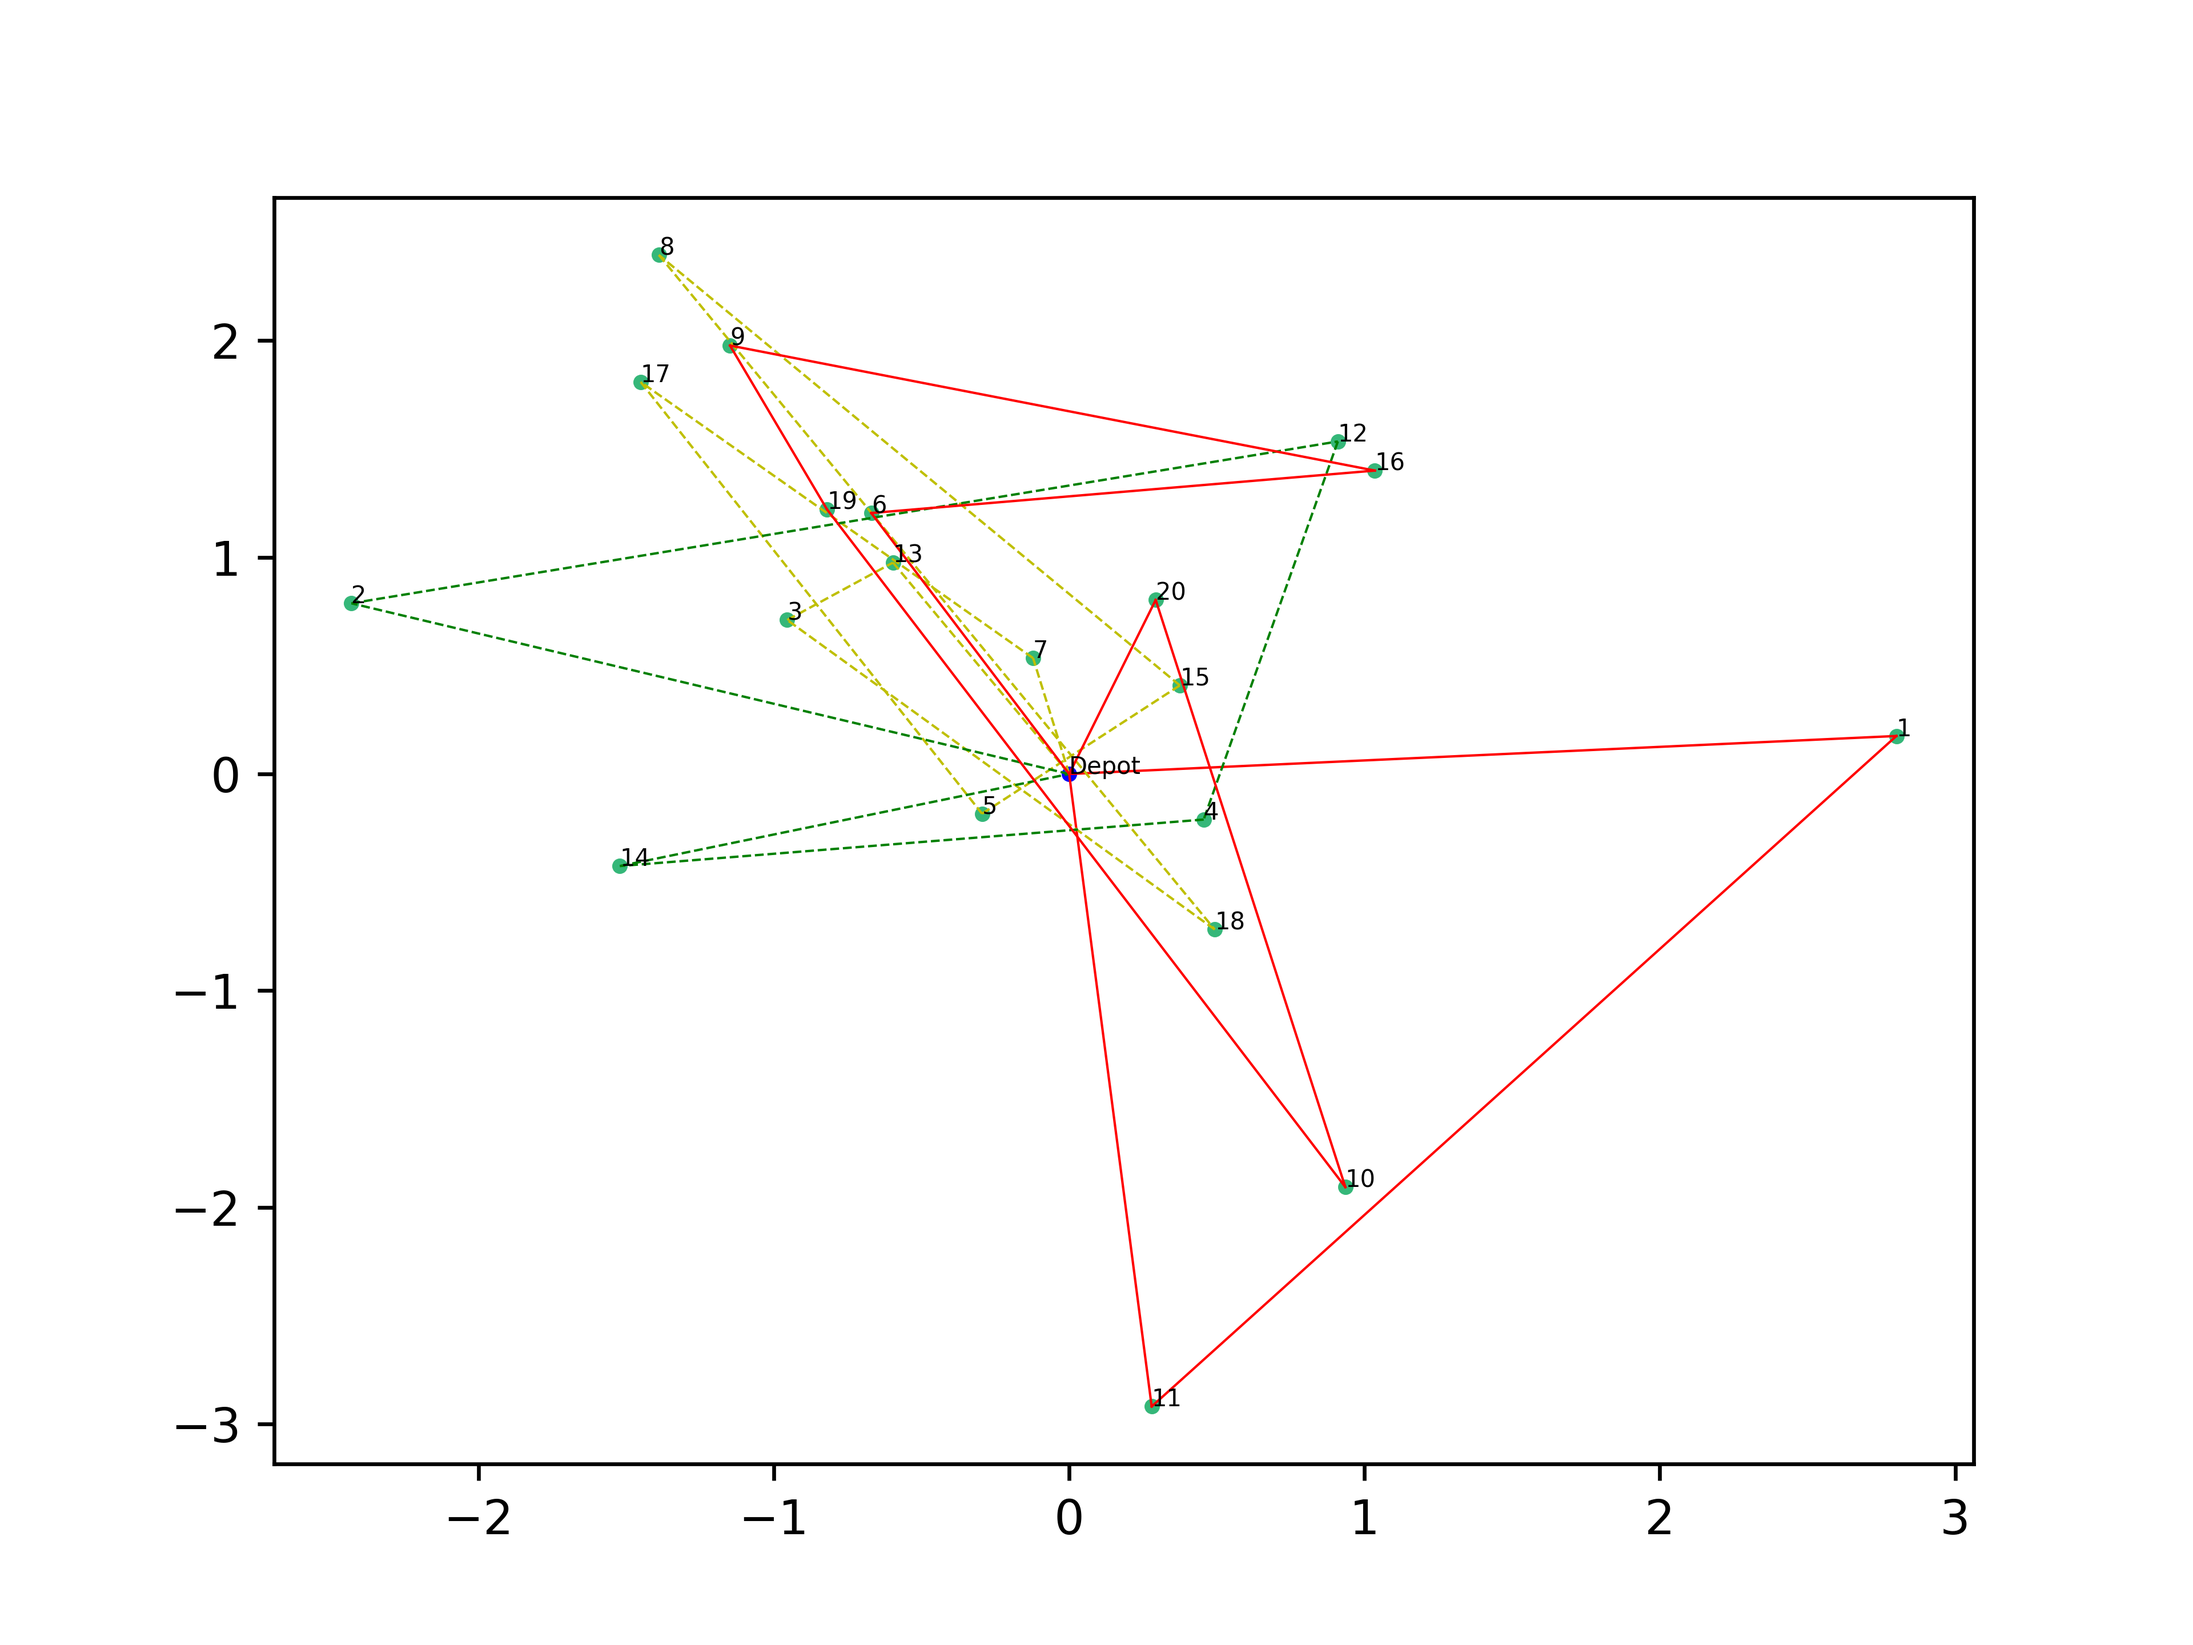
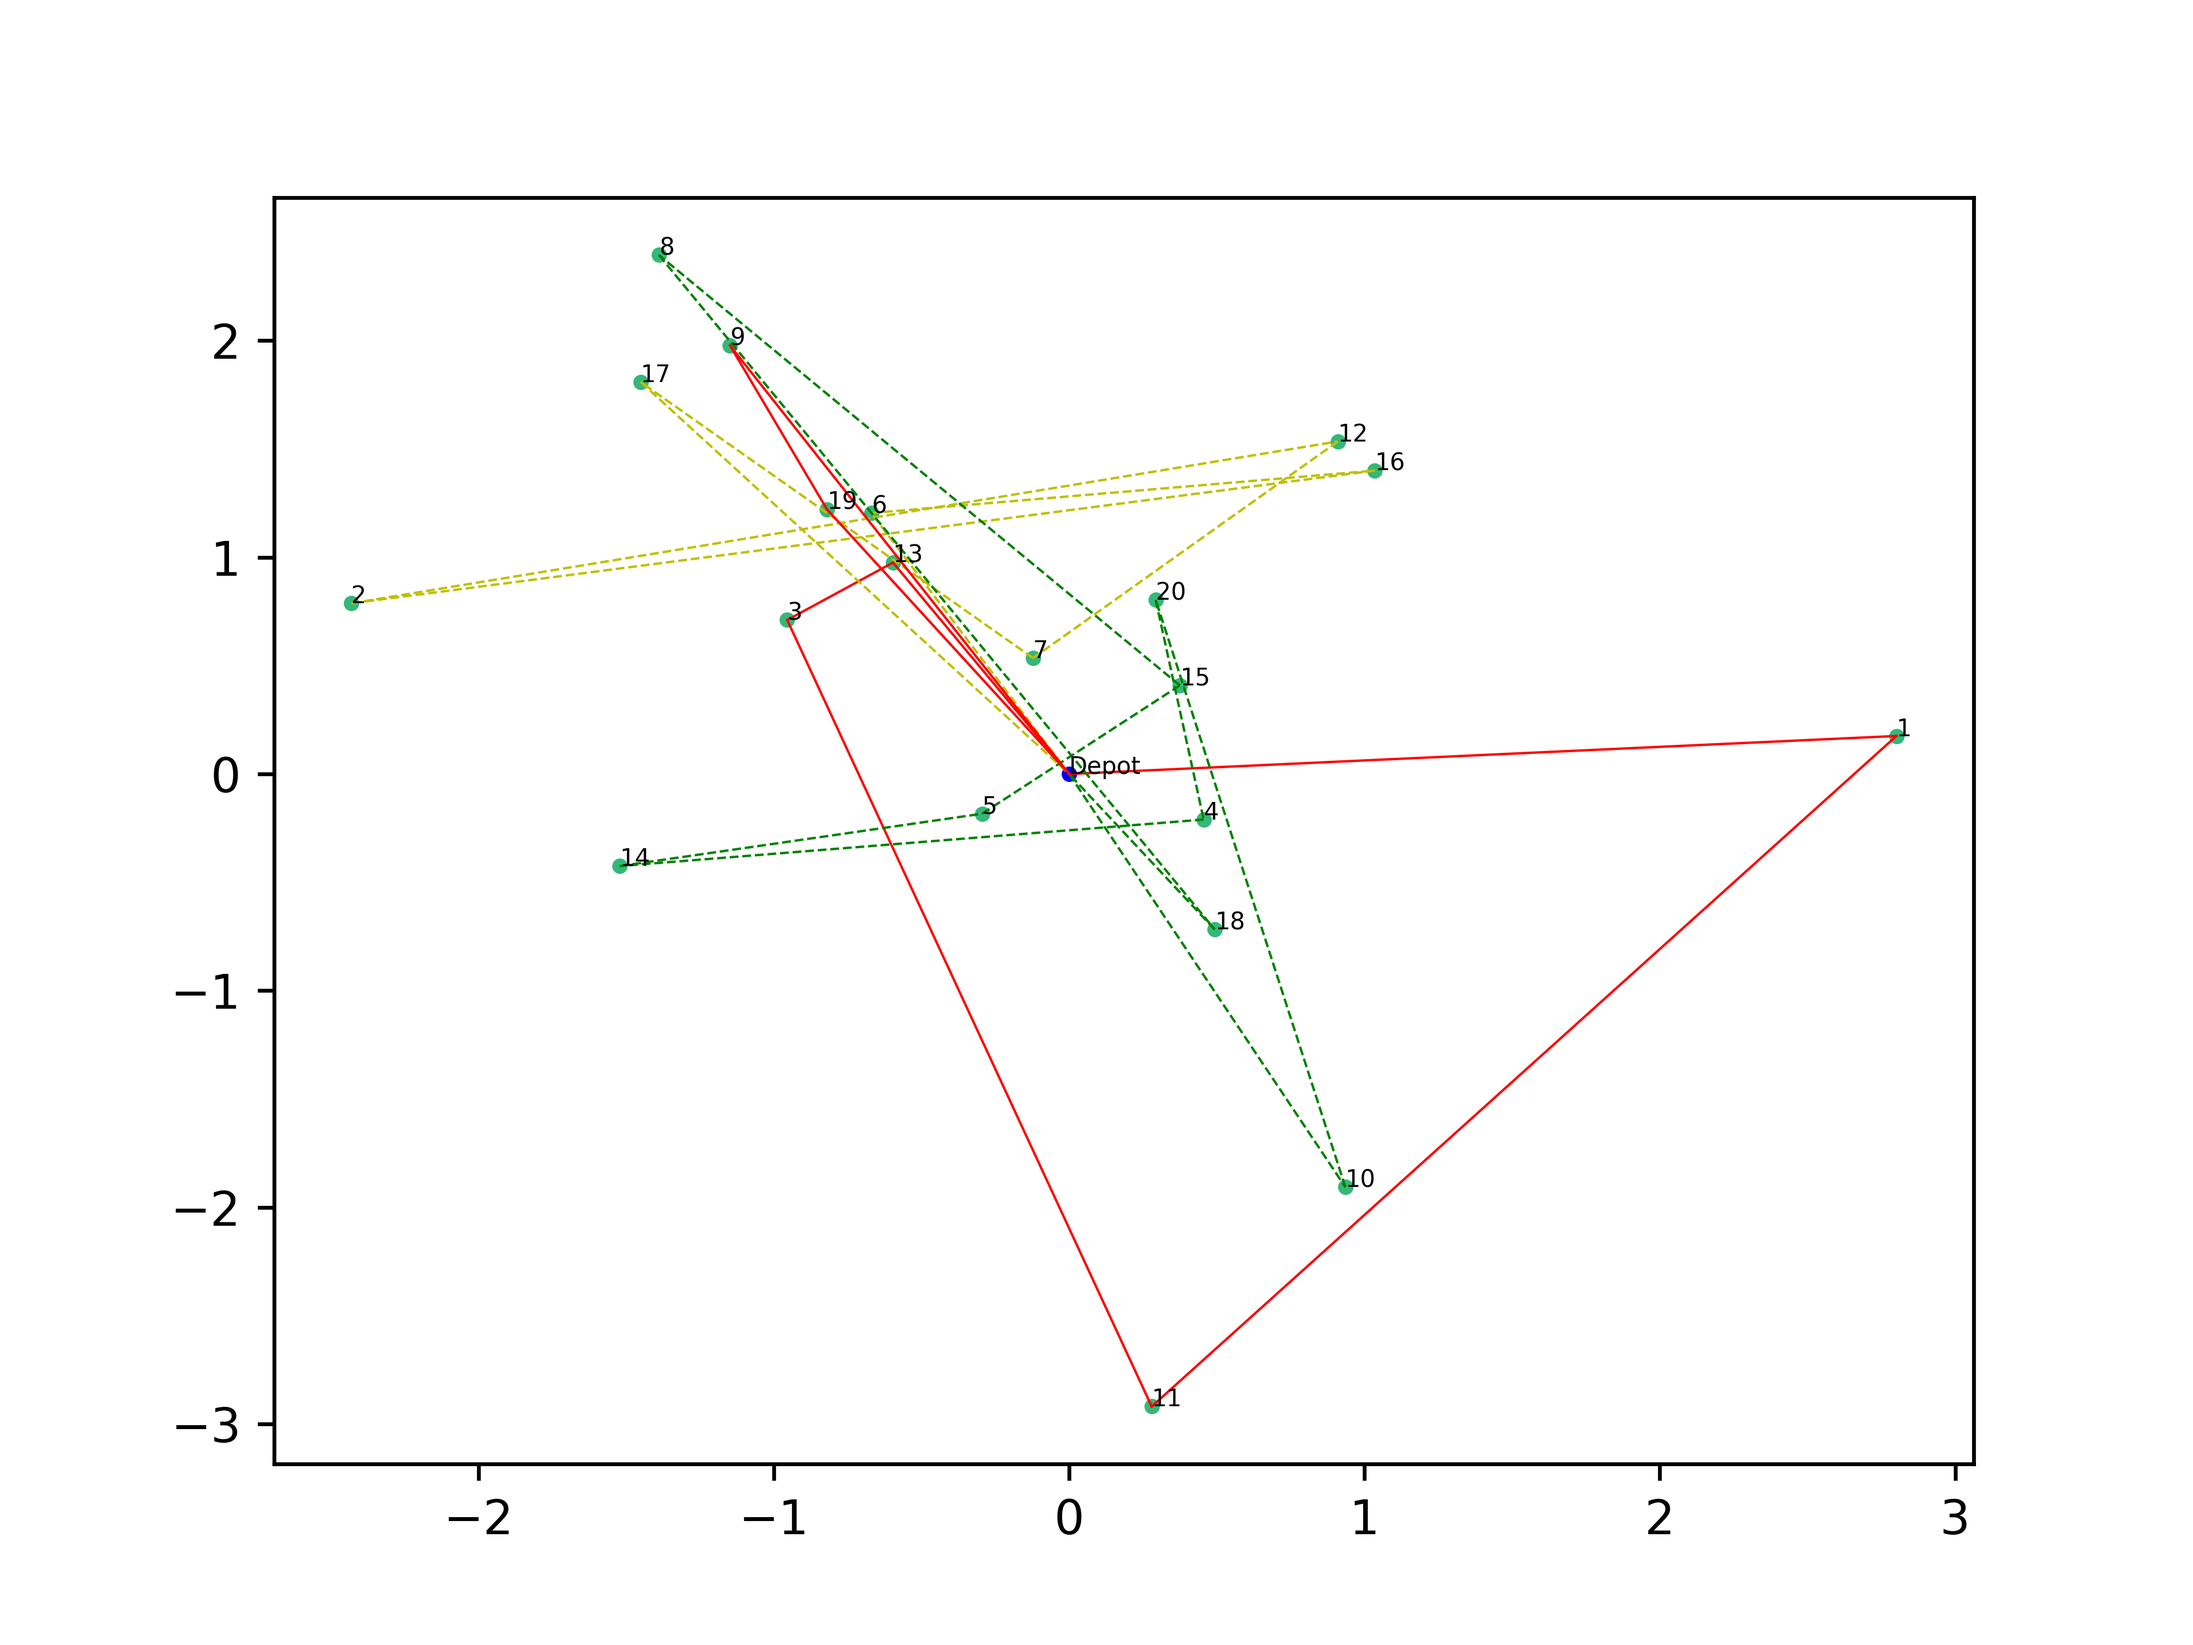
output_log

diff --git a/code/output.py b/code/output.py
@@ -5,8 +5,10 @@
 
 import matplotlib.pyplot as plt
 
-def output_to_picture(output_picture_path, solution,algorithm_input_data):
-    t_color = ['g--', 'r-', 'y--', 'g--', 'r-', 'y--', 'g--', 'r-', 'y--', 'g--', 'r-', 'y--', 'g--', 'r-', 'y--', 'g--', 'r-', 'y--']
+
+def output_to_picture(output_picture_path, solution, algorithm_input_data):
+    t_color = ['g--', 'r-', 'y--', 'g--', 'r-', 'y--', 'g--', 'r-', 'y--', 'g--', 'r-', 'y--', 'g--', 'r-', 'y--',
+               'g--', 'r-', 'y--']
     plt.figure()
     # 所有节点
     for node in range(1, len(algorithm_input_data.OAs) * 2 + 1):
@@ -27,3 +29,14 @@ def output_to_picture(output_picture_path, solution,algorithm_input_data):
             plt.plot(x_plt, y_plt, t_color[truck_ID], linewidth=0.5)
             node_1 = node_2
     plt.savefig(output_picture_path + '\\trucks.png', dpi=600)
+
+
+def output_to_log(output_log_path, solution):
+    with open(output_log_path + '\\solution_log.txt', 'w') as txt:
+        for truck_ID, truck in solution.items():
+            txt_write = 'truck_%s:' % truck_ID + 'speed_%s' % truck.v + '\n'
+            txt_write += 'route:' + str(truck.route) + '\n'
+            txt_write += 'time_line:' + str(truck.time_line) + '\n'
+            txt_write += 'capacity_line:' + str(truck.capacity_line) + '\n'
+            txt_write += 'travel_distance_line_of_route:' + str(truck.travel_distance_line_of_route) + '\n\n'
+            txt.write(txt_write)

diff --git a/code/initial_solution.py b/code/initial_solution.py
@@ -140,9 +140,18 @@ if __name__ == '__main__' :
     algorithm_input_data = Algorithm_inputdata(path_of_file)
     # test_first_stage pass
     first_stage_solution = first_stage(algorithm_input_data)
-    output_to_picture('..//output//first_stage', first_stage_solution, algorithm_input_data)
     first_stage_solution[6] = Truck(6)
+    output_to_picture('..//output//first_stage', first_stage_solution, algorithm_input_data)
+    output_to_log('..//output//first_stage', first_stage_solution)
+
     # test_second_stage pass
     second_stage_solution = second_stage(algorithm_input_data, first_stage_solution)
     output_to_picture('..//output//second_stage', second_stage_solution, algorithm_input_data)
+    output_to_log('..//output//second_stage', second_stage_solution)
     print('finish')
+
+
+# todo notation here
+# 添加一辆新的无任何任务的车辆进解，在第二阶段可能会出现无法提出该车辆，其原因：
+# 将该车剔除后，使用LNS进行解的测试和改进，1 由于LNS的迭代次数的原因，可能会出现LNS无法破坏解后无法修复（将订单全部安排）
+# 初始解的插入算子和LNS的插入算子不一样
